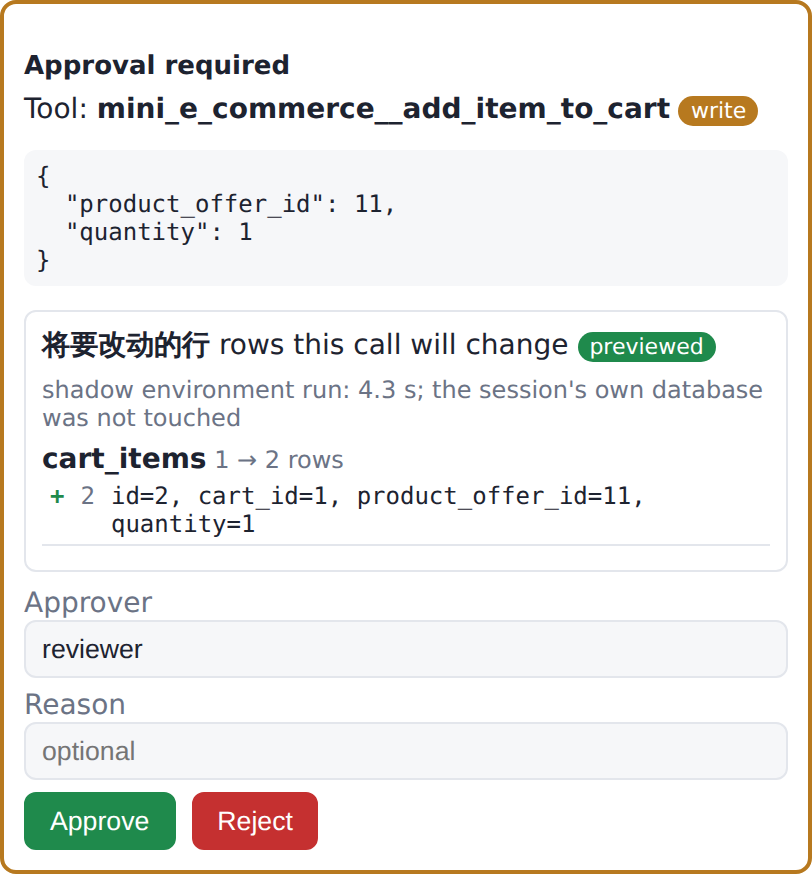
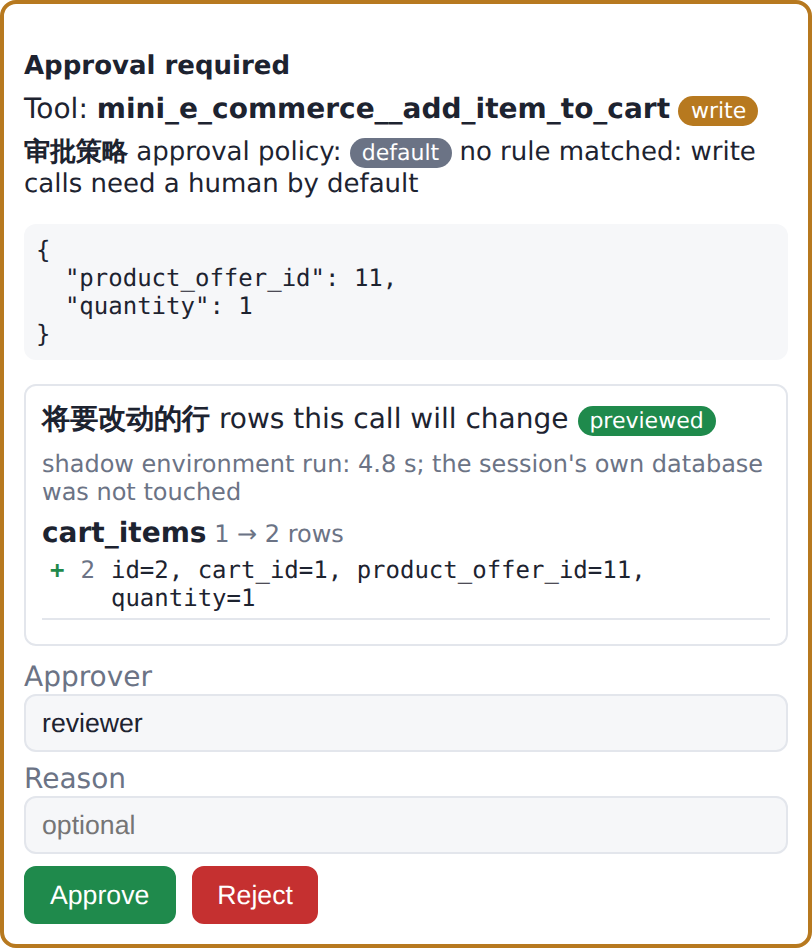
feat(ui): show the deciding approval rule on the card, the timeline and the chat

diff --git a/ui/app.js b/ui/app.js
@@ -57,9 +57,15 @@ function timeline(e) {
   const li = el("li", { class: e.type }, el("span", { class: "t" }, `${t} `), el("b", {}, e.type), " ");
   if (e.type === "tool_call") {
     li.append(e.tool, " ", badge(e.status, e.status), " ", badge(e.decision === "allowed" ? "allowed" : "denied", e.decision));
-    if (e.approver) li.append(` approved by ${e.approver}`);
-    if (e.preview_check) li.append(" ", checkBadge(e.preview_check));
+    if (e.policy && e.policy.rule) li.append(" ", ruleBadge(e.policy));
+    if (e.approver) li.append(isPolicyApprover(e.approver) ? " auto-approved by the approval policy" : ` approved by ${e.approver}`);
+    // an auto-approved call has no preview by design (D32): a neutral badge, not the red 未预演 one
+    if (e.preview_check) li.append(" ", isPolicyApprover(e.approver) ? badge("empty", "no preview") : checkBadge(e.preview_check));
+    if (e.preview_check && e.preview_check.actual) li.append(el("span", { class: "muted" }, ` changed: ${e.preview_check.actual}`));
+    if (e.policy && e.policy.guard) li.append(" ", badge("mismatch", "guard"), ` ${e.policy.guard}`);
     li.append(el("pre", {}, (e.text || "").slice(0, 400)));
+  } else if (e.type === "approval_requested") {
+    li.append(e.tool, " ", e.policy && e.policy.rule ? ruleBadge(e.policy) : badge("rule default", "default rule"));
   } else if (e.type === "preview") {
     li.append(e.tool, " ", badge(e.status === "ok" ? "ok" : "unpreviewed", e.status), ` ${e.summary || ""}`);
   } else if (e.type === "preview_mismatch") {
@@ -81,8 +87,12 @@ function timeline(e) {
 function handleEvent(e) {
   timeline(e);
   if (e.type === "tool_call") {
-    const check = e.preview_check ? ` · preview check: ${e.preview_check.result}` : "";
-    chat("step", `tool ${e.tool} → ${e.status}${check}`);
+    const rule = e.policy && e.policy.rule ? ` · rule ${e.policy.rule}` : "";
+    const auto = isPolicyApprover(e.approver);
+    const check = e.preview_check && !auto ? ` · preview check: ${e.preview_check.result}` : "";
+    const changed = auto && e.preview_check && e.preview_check.actual ? ` · changed: ${e.preview_check.actual}` : "";
+    const how = auto ? " · auto-approved, no preview" : "";
+    chat(e.decision === "denied_by_rule" ? "step warn" : "step", `tool ${e.tool} → ${e.status}${rule}${how}${changed}${check}`);
   }
   if (e.type === "node" && e.node === "plan") chat("step", `plan: ${e.steps.map((s) => s.description).join(" → ")}`);
   if (e.type === "preview") chat("step", `preview in a shadow environment: ${e.status} · ${e.summary || ""}`);
@@ -94,6 +104,24 @@ function handleEvent(e) {
     chat("agent", e.final_answer || "(no answer)");
     refreshMemory();
   }
+}
+
+// ---------------------------------------------------------------- approval policy (ADR-030)
+function isPolicyApprover(approver) {
+  return typeof approver === "string" && approver.startsWith("policy:");
+}
+
+function ruleBadge(policy) {
+  return badge("rule", `rule ${policy.rule}`);
+}
+
+function policySection(p) {
+  if (!p) return [];
+  const why = p.rule ? p.reason.replace(`rule ${p.rule}`, "").replace(/^: /, "") : p.reason;
+  const out = [el("div", { class: "policy-line" }, el("b", {}, "审批策略"), " approval policy: ",
+    p.rule ? ruleBadge(p) : badge("rule default", "default"), why ? ` ${why}` : "")];
+  if (p.guard) out.push(el("div", { class: "blocked small" }, p.guard));
+  return out;
 }
 
 // ---------------------------------------------------------------- approval card + preview (ADR-029)
@@ -151,6 +179,7 @@ function showApproval(e) {
   const body = $("approval-body");
   body.replaceChildren(
     el("div", {}, "Tool: ", el("b", {}, e.tool), " ", badge(e.risk, e.risk)),
+    ...policySection(e.policy),
     el("pre", {}, JSON.stringify(e.arguments, null, 2)),
     ...previewSection(e.preview, e.risk),
   );

diff --git a/ui/style.css b/ui/style.css
@@ -67,4 +67,6 @@ table { width: 100%; border-collapse: collapse; } td, th { text-align: left; pad
 .msg.step.warn { color: var(--danger); }
 .timeline li.preview { border-color: var(--accent); }
 .timeline li.preview_mismatch, .timeline li.approval_refused { border-color: var(--danger); }
-
+.badge.rule { background: #5a4fcf; } .badge.rule.default { background: var(--muted); }
+.policy-line { margin: 4px 0; font-size: 13px; }
+.timeline li.approval_requested { border-color: var(--warn); }

diff --git a/scripts/docker_smoke.py b/scripts/docker_smoke.py
@@ -3,9 +3,9 @@
 
 Builds the compose stack, starts it WITHOUT the gpu profile, drives the mock demo over the HTTP
 API (query -> write -> preview + approval -> done), prints image sizes and the cold-start time,
-and stops the stack. The approval request must carry the preview diff (a shadow environment in
-the env-manager container, ADR-029) and the approved write must match it. Standard library only,
-so it runs on a bare CI runner.
+and stops the stack. The approval request must carry the approval policy's decision (ADR-030) and
+the preview diff (a shadow environment in the env-manager container, ADR-029), and the approved
+write must match it. Standard library only, so it runs on a bare CI runner.
 
 The stack needs no edits for this: the image already contains tests/fixtures, compose mounts
 ./data and reads an optional ./.env. The script copies the hand-written mini dataset to
@@ -116,6 +116,11 @@ def api_flow(base: str) -> list[str]:
     calls = ", ".join(f"{e['tool']} -> {e['status']}" for e in reads)
     out.append(f"query: {calls}")
     out.append(f"write paused for approval: {last.get('tool')} (risk {last.get('risk')})")
+    # the shipped approval policy has no rule for the mini demo call: the default sends it to a person
+    policy = last.get("policy") or {}
+    if (policy.get("decision"), policy.get("rule")) != ("require_human", None):
+        raise SmokeError(f"expected the default approval decision (require_human, no rule), got {policy}")
+    out.append(f"approval policy (ADR-030): {policy.get('reason')}")
     # the approval card carries the preview diff: the rows the call will change (ADR-029)
     preview = last.get("preview") or {}
     added = (((preview.get("changes") or {}).get("tables") or {}).get("cart_items") or {}).get("added") or []
